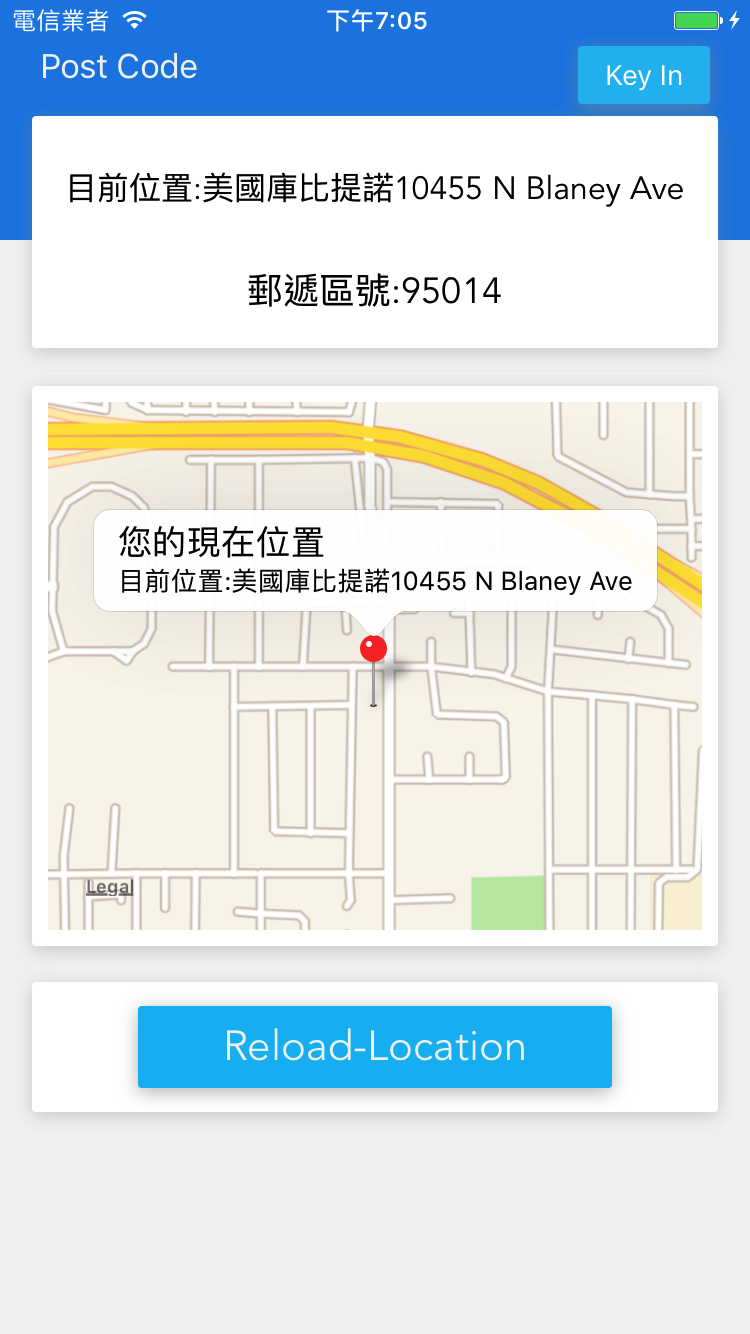
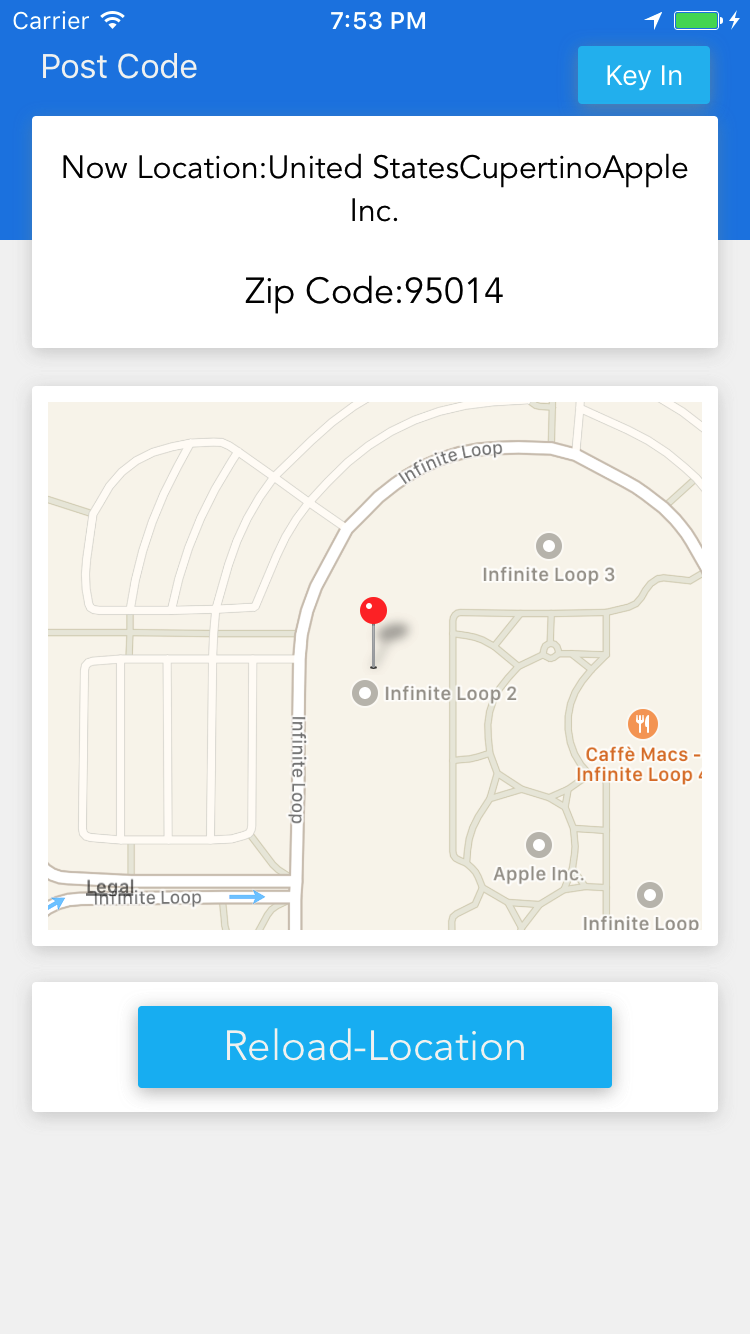
update UI

diff --git a/postcode/ViewController.swift b/postcode/ViewController.swift
@@ -92,8 +92,8 @@ class ViewController: UIViewController,CLLocationManagerDelegate {
         
                 self.showLocalPoint()
                 
-                self.postCodeLabel!.text = "郵遞區號:\(self.postCode)"
-                self.localLabel!.text = "目前位置:\(self.localString)"
+                self.postCodeLabel!.text = "Zip Code:\(self.postCode)"
+                self.localLabel!.text = "Now Location:\(self.localString)"
                 
                 
                 //self.localString =
@@ -139,7 +139,7 @@ class ViewController: UIViewController,CLLocationManagerDelegate {
         
         let annotation = MKPointAnnotation()
         annotation.coordinate = location
-        annotation.title = "您的現在位置"
+        annotation.title = "Your Location"
         annotation.subtitle = "\(self.localLabel!.text!)"
         
         mapView?.addAnnotation(annotation)
@@ -157,7 +157,7 @@ class ViewController: UIViewController,CLLocationManagerDelegate {
     
     @IBAction func reloadBtnTapped(_ sender: AnyObject) {
         reloadLocation()
-        showAlert("地址:\(localString)", msg: "郵遞區號:\(postCode)")
+        showAlert("Address:\(localString)", msg: ":Zip Code\(postCode)")
     }
     
     @IBAction func unwindToMapView(_ segue:UIStoryboardSegue){

diff --git a/postcode/SerachController.swift b/postcode/SerachController.swift
@@ -58,7 +58,7 @@ class SerachController: UIViewController {
                 
                 var jsonObj = SwiftyJSON.JSON(json)
                 
-                self.codeLabel.text = "郵遞區號 (zip code):" + String(describing: jsonObj["zipcode"])
+                self.codeLabel.text = " Zip Code :" + String(describing: jsonObj["zipcode"])
                 
                 callback(true)
                 

diff --git a/README.md b/README.md
@@ -7,8 +7,9 @@ you can also use the input method to convert text to zip code .
 
 ## ScreenShot
 
- ![image]()
-  ![image]()
+ ![image](https://github.com/mike840609/Postal-Code/blob/master/img/1.png)
+ ![image](https://github.com/mike840609/Postal-Code/blob/master/img/2.png)
+ ![image](https://github.com/mike840609/Postal-Code/blob/master/img/3.png)
 
 ## Installation
 
